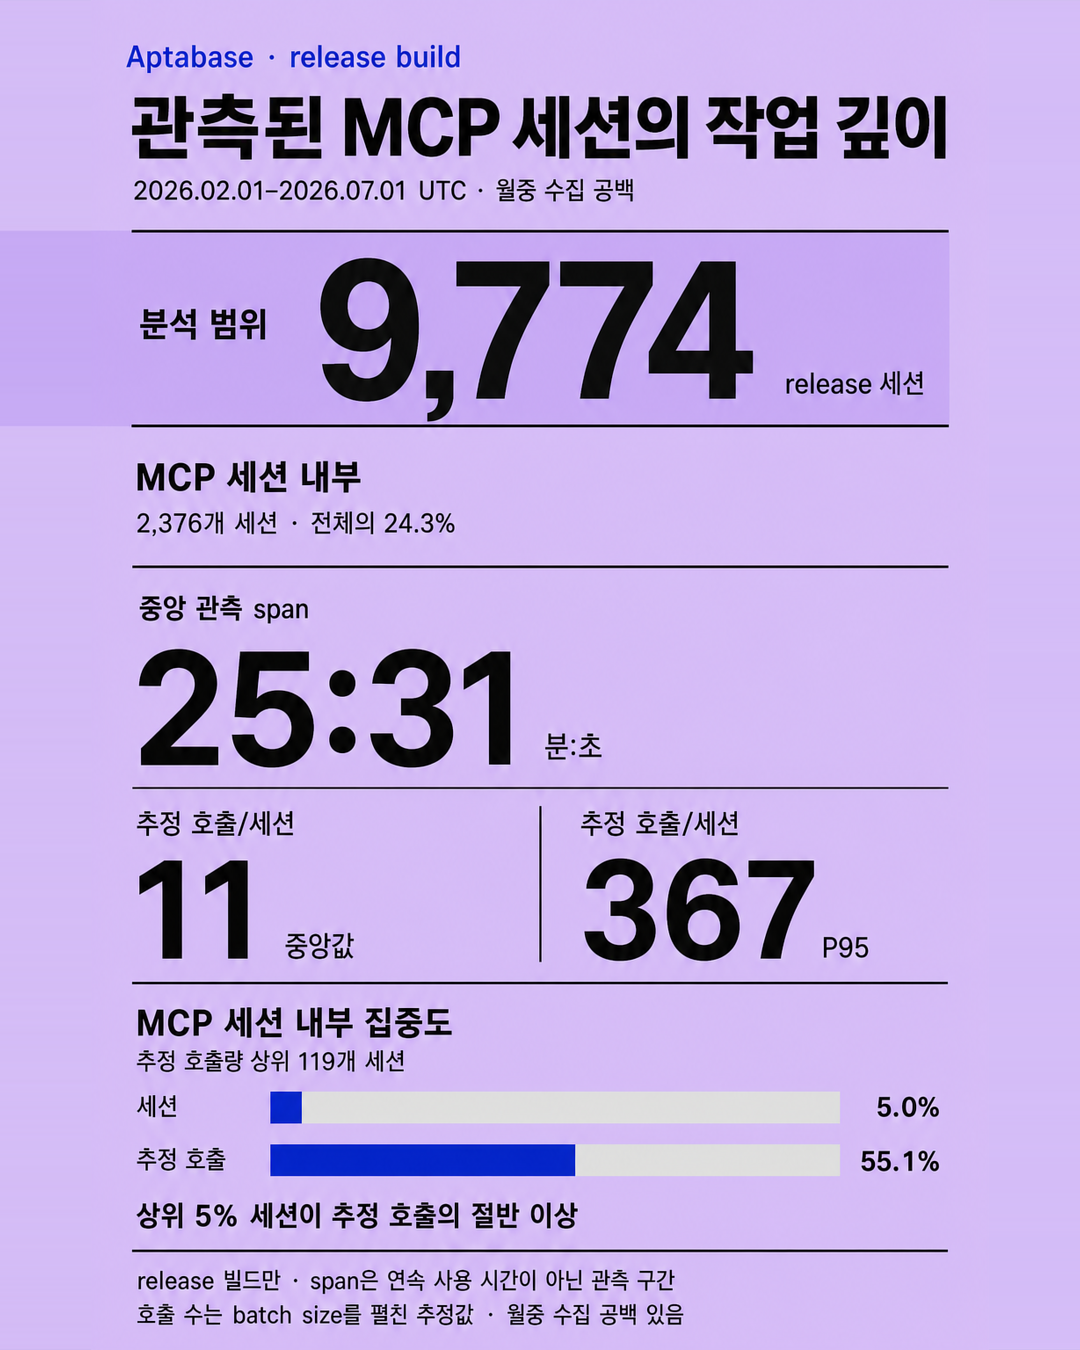
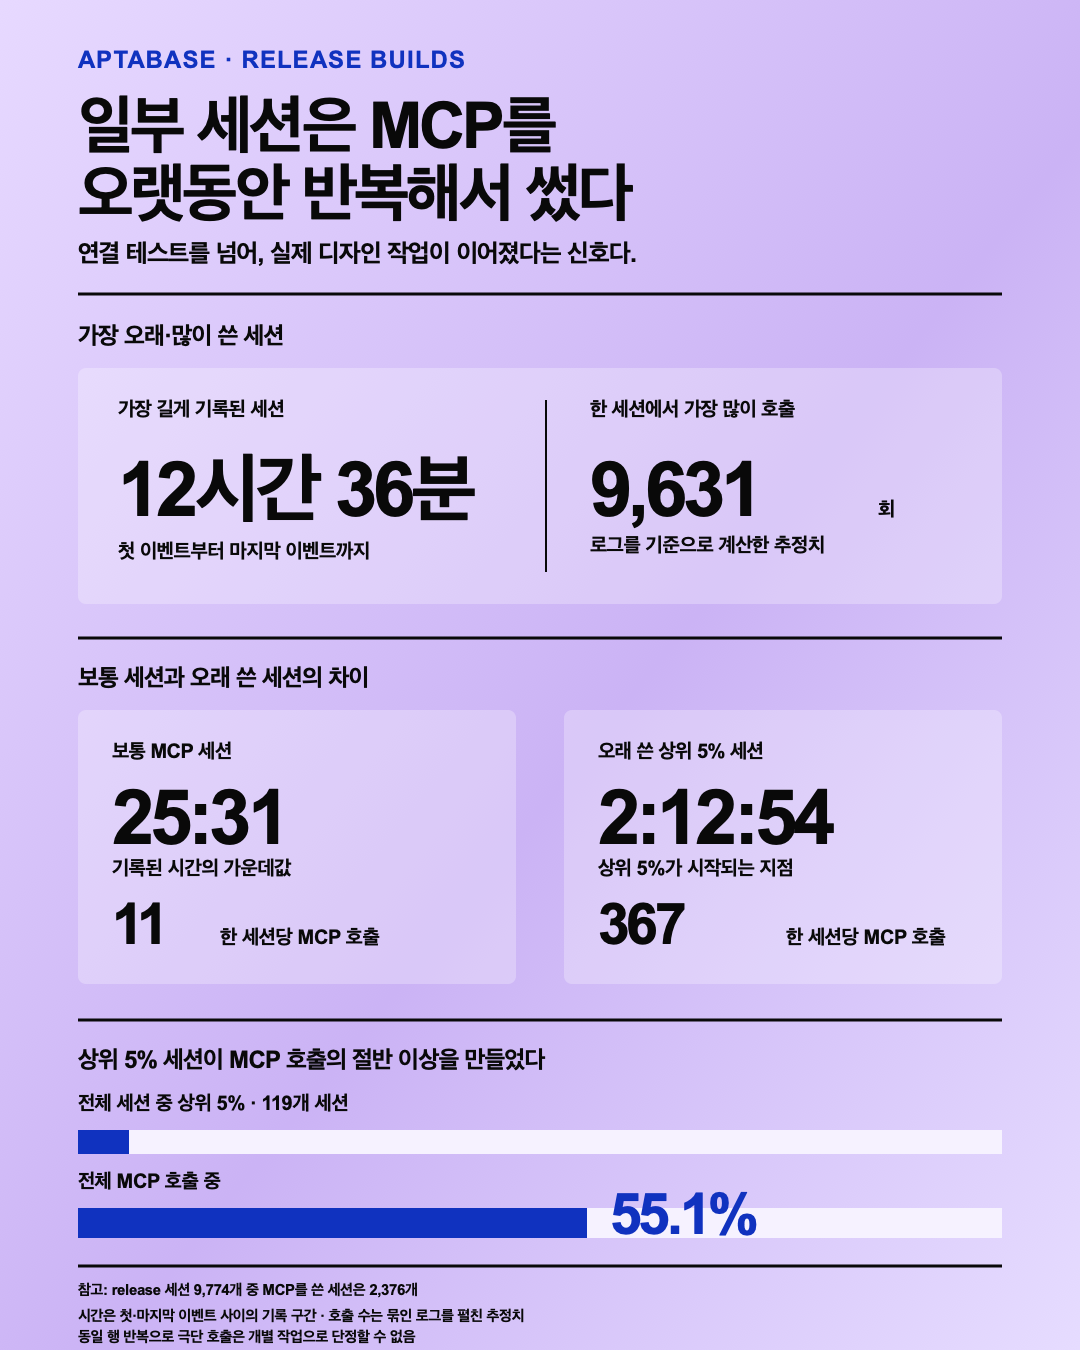
Add bilingual MCP Magic retrospective assets

diff --git a/_posts/2026-07-12-mcp-magic-retrospective-en.md b/_posts/2026-07-12-mcp-magic-retrospective-en.md
@@ -1,0 +1,122 @@
+---
+title: "31,360 Cumulative Users and 570,000 Calls: MCP Magic"
+date: 2026-07-12 00:00:00
+description: "31,360 cumulative users and 570,373 MCP tool calls. A retrospective on turning the first connection into a product—and what happened once the center of that experience moved into the platform."
+featured_image: "/images/projects/2026-mcp-magic-retrospective/mcp-magic-desktop-en.png"
+article_class: "post__content--mcp-magic-retrospective"
+title_class: "post__title--mcp-magic-retrospective"
+visible: true
+lang: en
+translation_key: mcp-magic-retrospective
+---
+
+> What we built was not a new AI feature. It was a doorway people could cross—from installation to their first successful call—without giving up along the way.
+
+_Read the [original Korean post](/blog/mcp-magic-retrospective)._
+
+GA4 recorded **31,360 cumulative users** and **570,373 MCP tool calls**. The project worked. But as usage grew, operating the connection became the harder problem, and the center of the experience we were solving for began moving into the official platform.
+
+<figure id="mcp-retro-key-metrics" class="mcp-retro-image-figure">
+  <a href="/images/projects/2026-mcp-magic-retrospective/mcp-magic-key-metrics-social-en.png" aria-label="View the MCP Magic key metrics image at full size">
+    <img src="/images/projects/2026-mcp-magic-retrospective/mcp-magic-key-metrics-social-en.png" width="1122" height="1402" alt="An overview of 31,360 cumulative GA4 users, 570,373 MCP tool calls, and a 94.1 percent success rate for status-classified calls">
+  </a>
+  <figcaption>31,360 is the cumulative user count for the whole app. 1,633 active users generated at least one <code>mcp_tool_call</code> event; these are not sequential funnel stages for the same users. The GA4 query covers July 1, 2025–June 30, 2026, with valid records beginning in August 2025. The success rate uses the 570,044 calls with an explicit success or failure status.</figcaption>
+</figure>
+
+Watching AI read and edit a design in Figma was compelling. But when we handed the tools to other people, many stopped before reaching that moment. They had to set up a runtime and server, an MCP client and a Figma plugin separately—and when something went wrong, move back and forth between the terminal and the plugin.
+
+So we brought those scattered preparation steps into one desktop app. Borrowing a Korean expression, we wanted a **“one-click” experience** where the server would just come up.
+
+## We built an entrance, not a feature
+
+MCP Magic did not start from scratch. Its starting point was [Cursor Talk To Figma MCP](https://github.com/grab/cursor-talk-to-figma-mcp), which the Grab Design team had used internally and released as open source. The core capability—reading and editing Figma through natural language—already worked.
+
+The product problem we had to solve was not the core capability, but the path to first success. MCP Magic brought service startup, copied configuration, connection status, and logs—previously scattered across several tools—onto one screen.
+
+We released the first KMP-based desktop version on July 18, 2025, then expanded it into a family of apps called MCP Magic that October. After listening to users, we rewrote the architecture in Electron. I worked through this with my fellow contributors **Yiseo and Jin**. The implementation changed more than once, but the question stayed the same.
+
+> How could more people get past the first connection and into real work?
+
+The app did not make MCP itself more powerful. It made the path to power that already existed shorter and clearer. A powerful capability that people abandon before their first connection might as well not exist to them.
+
+## The project led to real work
+
+Over the 11 months with valid GA4 records, 1,633 active users generated at least one `mcp_tool_call` event. This figure is counted independently by event from the app-wide total of 31,360 cumulative users, so it does not mean all 31,360 people made it to MCP work. Still, that core group produced 570,373 MCP tool calls: 536,267 successes and 33,777 failures. Among calls with an explicit success or failure status, the success rate was **94.1%**.
+
+The core group that generated calls did not simply check whether a connection was live and leave. `create_text` succeeded 105,643 times, and `set_fill_color` 92,561 times—a combined 198,204. Grouping tool names into creation/duplication and styling/content editing yields 390,642 calls, or **72.8%** of all successful calls.
+
+<figure id="mcp-retro-purpose-chart" class="mcp-retro-image-figure">
+  <a href="/images/projects/2026-mcp-magic-retrospective/mcp-magic-calls-by-purpose-social-en.png" aria-label="View the MCP successful calls by design purpose chart at full size">
+    <img src="/images/projects/2026-mcp-magic-retrospective/mcp-magic-calls-by-purpose-social-en.png" width="1080" height="1350" alt="A horizontal bar chart of successful MCP calls by design purpose, including 155,623 for content creation and text editing, 151,443 for structure and layout, and 141,524 for visual styling">
+  </a>
+  <figcaption>This is an analyst-defined classification of the most-used successful tools into six more specific design purposes, based on their names. People did not stop at reading Figma; they created, filled, and refined it.</figcaption>
+</figure>
+
+**What people wanted was not a connection for its own sake, but the moment when AI actually touched Figma.** MCP Magic's role was to build the entrance that made that moment reachable.
+
+### Depth was uneven, and some sessions became very deep
+
+GA4 showed reach and call volume; the Aptabase export showed how deeply MCP was used inside observed sessions. The important signal here is not the total number of sessions, but the density of work in the sessions where people began using MCP.
+
+<figure id="mcp-retro-session-depth" class="mcp-retro-image-figure">
+  <a href="/images/projects/2026-mcp-magic-retrospective/mcp-magic-session-depth-social-en.png" aria-label="View the work depth in observed MCP sessions at full size">
+    <img src="/images/projects/2026-mcp-magic-retrospective/mcp-magic-session-depth-social-en.png" width="1080" height="1350" alt="A maximum observed span of 12 hours and 36 minutes and a maximum estimated 9,631 MCP calls; a median span of 25 minutes and 31 seconds with 11 estimated calls per session; a P95 span of 2 hours, 12 minutes, and 54 seconds with 367 calls; and the top 5 percent of sessions driving 55.1 percent of estimated calls">
+  </a>
+  <figcaption>Release builds only. A span is the observed interval between the first and last event, not continuous usage time. Call counts are estimates with batch size expanded. Because event IDs are unavailable and identical rows repeat, extreme values cannot all be treated as independent tasks. Gaps in collection during each month mean these data do not represent total adoption or monthly trends.</figcaption>
+</figure>
+
+Work depth was not evenly distributed. A typical observed MCP session had a median span of 25 minutes and 31 seconds and 11 estimated calls, while the threshold for the deepest 5% reached 2 hours, 12 minutes, and 54 seconds with 367 calls. The longest observed session spanned 12 hours, 36 minutes, and 41 seconds; the maximum estimated call count was 9,631; and the top 5% of sessions generated 55.1% of all estimated calls. **For some people, MCP was no longer a connection to test—it had become a tool for long, repeated design work.**
+
+## After the click came operations
+
+As the user base grew, the question changed.
+
+> Could we make this something people could keep trusting across different users, operating systems, MCP clients, and network environments?
+
+The channel run by Yiseo received questions about whether design really happened with just one click, whether all AI was free, and whether the app would handle Cursor or Claude Code setup too.
+
+Every user's “it doesn't work” had a different cause. A connection could fail at the server or port, the plugin channel, MCP client settings, or operating-system security. GA4 recorded 1,539 active users encountering port-binding issues, 1,231 encountering duplicate server-start handlers, and 1,056 encountering request timeouts.
+
+The causes differed, but they arrived to users as the same message.
+
+> It doesn't work.
+
+High call-level success and session-level friction existed at the same time. GA4 showed a 94.1% success rate among calls with an explicit status, while a separate Aptabase release logbook—with a different period and instrumentation—recorded at least one failure event in 1,424 of 2,376 MCP sessions (59.9%). The two figures cannot be compared directly. But the fact that many observed MCP sessions contained at least one failure event shows why call-level success alone cannot explain the friction of doing the work.
+
+Making the first connection easy was not enough. Next came diagnosis and recovery appropriate to each user's level, connection reliability, and support operations. These were not ancillary operational chores; they were the product we still needed to build after the first connection.
+
+## Success did not guarantee survival
+
+We expanded language support and experimented with working through a local LLM without a separate IDE. But over time, the case for continuing large updates became weaker—not because there was no usage, but because the most natural home for the core experience we had made into a product began moving into the official platform.
+
+In March 2026, Figma announced [a beta in which agents write directly to the canvas through `use_figma`](https://www.figma.com/blog/the-figma-canvas-is-now-open-to-agents/), followed in May by [the Figma design agent that works directly within the canvas](https://www.figma.com/blog/the-figma-agent-is-here/). The problem itself did not go away. The default place to solve it changed.
+
+Independent tools often discover new demand first where a platform's boundary is thin. Once that demand becomes clear enough, a platform that already has the files, permissions, design system, and deployment surface can bring the flow into its own product through a shorter path. This is natural and welcome for users, but for a third party it means that **the success of a feature and the sustainability of an independent product are entirely different problems.**
+
+This is not a story about Figma seeing us and copying us. Nor can the data prove that official features caused user decline. What we did prove was real demand, while the platform occupied the structural position to solve that demand more naturally.
+
+The judgment that this direction made sense was separate from the feelings of those who built it. We found the problem early enough to turn it into a product and proved demand through tens of thousands of people and 570,000 calls. But we did not decide quickly enough what we would own for the long term: diagnosis and recovery, cross-platform connection, or deep workflows for a particular team. We were not pushed out simply because we were late. Even after solving the problem early enough, we chose our next sustainable position too late.
+
+That is why we plan to keep MCP Magic closer to maintenance mode than shut it down. Necessary fixes will continue, but there is less reason than before to keep making major feature updates in its current form.
+
+## What we will decide earlier next time
+
+In retrospect, we waited too long after making the first connection easy.
+
+First, **we should have narrowed the next goal sooner.** We never decided whether to remain an installation helper, become a connection diagnosis and recovery tool, or combine the frequently repeated Figma work into a single workflow. After the first problem was solved, we needed a new product hypothesis.
+
+Second, **we should have made the boundary of support clear.** It needed to be clearer which problems belonged to the app and which belonged to the Figma plugin, MCP client, operating system, or AI costs. Turning repeated “it doesn't work” reports into self-diagnosis and recovery flows mattered as much as developing features.
+
+Third, **we should have connected user data to the next hypothesis sooner.** Only when we organized the data late did we see broad discovery, a few work sessions with concentrated calls, high call-level success, and sessions that also contained failure events—all at once. Had we separated the first connection, first success, repeat use, and behavior after a failure from the start, the priorities for updates might have been different.
+
+## What 570,000 calls left behind
+
+What the project proved was demand, not a right for us to own that demand forever.
+
+MCP Magic reduced the first step of taking users from 0 to 80 to “one click.” The app reached 31,360 cumulative users, who accumulated 570,373 MCP tool calls. Those calls record work: creating text, applying color, making frames, and refining layouts.
+
+At the same time, the final 20% still meant diagnosis and recovery, operations and support, and the choice of where our responsibility ended. Once the official platform began solving the same problem more naturally, the more important question was not what we could build, but what we could own for the long term.
+
+This is neither a record of failure nor an excuse for slowing updates. **A successful feature and a product entering maintenance mode can exist at the same time.** The 570,000 calls are both evidence that we solved the right problem and an invoice reminding us to choose a sustainable position earlier next time.
+
+For denominators, methodology, data-quality limitations, and project history, see the separate [Appendix Markdown (Korean)](https://github.com/dusskapark/dusskapark.github.io/blob/master/research/mcp-magic-retrospective/APPENDIX.ko.md).

diff --git a/_posts/2026-07-12-mcp-magic-retrospective.md b/_posts/2026-07-12-mcp-magic-retrospective.md
@@ -1,7 +1,7 @@
 ---
-title: "31,360명의 활성 사용자와 57만 번의 호출: MCP Magic"
+title: "31,360명의 누적 사용자와 57만 번의 호출: MCP Magic"
 date: 2026-07-12 00:00:00
-description: "31,360명의 활성 사용자와 570,373건의 MCP 도구 호출. 첫 연결을 제품으로 만들고, 그 경험의 중심이 플랫폼 안으로 이동한 뒤까지 돌아본다."
+description: "31,360명의 누적 사용자와 570,373건의 MCP 도구 호출. 첫 연결을 제품으로 만들고, 그 경험의 중심이 플랫폼 안으로 이동한 뒤까지 돌아본다."
 featured_image: "/images/projects/2026-mcp-magic-retrospective/mcp-magic-desktop.png"
 article_class: "post__content--mcp-magic-retrospective"
 title_class: "post__title--mcp-magic-retrospective"
@@ -16,13 +16,13 @@ authors:
 
 > 우리가 만든 것은 새로운 AI 기능이 아니라, 설치에서 첫 성공 호출까지 포기하지 않고 건널 수 있는 입구였다.
 
-GA4에는 **31,360명의 활성 사용자**와 **570,373건의 MCP 도구 호출**이 남았다. 숫자는 이 프로젝트가 실제로 쓰였다는 사실을 보여준다. 하지만 주형님과 진영님이 만든 Talk To Figma 데스크톱 앱을 MCP Magic 앱으로 함께 확장하고 출시하면서, 내게 더 오래 남은 것은 그다음의 질문이었다. 사용자가 늘어난 뒤에도 이 경험을 어떻게 안정적으로 이어 갈 것인가. 그리고 우리가 만든 길은 앞으로 어디에 남게 될 것인가.
+GA4에는 **31,360명의 누적 사용자**와 **570,373건의 MCP 도구 호출**이 남았다. 숫자는 이 프로젝트가 실제로 쓰였다는 사실을 보여준다. 하지만 주형님과 진영님이 만든 Talk To Figma 데스크톱 앱을 MCP Magic 앱으로 함께 확장하고 출시하면서, 내게 더 오래 남은 것은 그다음의 질문이었다. 사용자가 늘어난 뒤에도 이 경험을 어떻게 안정적으로 이어 갈 것인가. 그리고 우리가 만든 길은 앞으로 어디에 남게 될 것인가.
 
 <figure id="mcp-retro-key-metrics" class="mcp-retro-image-figure">
   <a href="/images/projects/2026-mcp-magic-retrospective/mcp-magic-key-metrics-social.png" aria-label="MCP Magic 핵심 지표 이미지 크게 보기">
-    <img src="/images/projects/2026-mcp-magic-retrospective/mcp-magic-key-metrics-social.png" width="1080" height="1350" alt="GA4 활성 사용자 31,360명, MCP 도구 호출 570,373건, 상태 분류 호출 성공률 94.1%를 요약한 이미지">
+    <img src="/images/projects/2026-mcp-magic-retrospective/mcp-magic-key-metrics-social.png" width="1080" height="1350" alt="GA4 누적 사용자 31,360명, MCP 도구 호출 570,373건, 상태 분류 호출 성공률 94.1%를 요약한 이미지">
   </a>
-  <figcaption>31,360명은 앱 전체 활성 사용자다. <code>mcp_tool_call</code> 이벤트를 남긴 활성 사용자는 1,633명이며, 두 값은 동일 사용자의 순서를 추적한 퍼널이 아니다. GA4 요청 범위는 2025.07.01–2026.06.30, 실제 유효 기록은 2025년 8월부터다. 성공률은 성공·실패 상태가 명시된 570,044건 기준이다.</figcaption>
+  <figcaption>31,360명은 앱 전체 누적 사용자다. <code>mcp_tool_call</code> 이벤트를 남긴 활성 사용자는 1,633명이며, 두 값은 동일 사용자의 순서를 추적한 퍼널이 아니다. GA4 요청 범위는 2025.07.01–2026.06.30, 실제 유효 기록은 2025년 8월부터다. 성공률은 성공·실패 상태가 명시된 570,044건 기준이다.</figcaption>
 </figure>
 
 Figma에서 AI가 디자인을 읽고 고치는 장면은 처음부터 매력적이었다. 다만 다른 사람에게 도구를 건네보면, 많은 이가 그 장면에 닿기도 전에 멈췄다. 런타임과 서버, MCP 클라이언트와 Figma 플러그인을 각각 설정해야 했고, 문제가 생길 때마다 터미널과 플러그인 사이를 오가야 했기 때문이다.
@@ -33,7 +33,7 @@ Figma에서 AI가 디자인을 읽고 고치는 장면은 처음부터 매력적
 
 MCP Magic은 빈 곳에서 시작한 프로젝트가 아니다. 출발점에는 Grab Design 팀에서 사용하다 오픈소스로 공개한 [Cursor Talk To Figma MCP](https://github.com/grab/cursor-talk-to-figma-mcp)가 있었다. 자연어로 Figma를 읽고 수정하는 핵심 기능은 이미 작동하고 있었다.
 
-주형님이 누구보다 먼저 본 것도 바로 그 지점이었다. 문제는 기능을 하나 더 보태는 일이 아니라, 사용자가 처음 성공하기까지의 과정을 줄이는 일이었다. 주형님과 진영님은 25년 7월 첫 Talk To Figma 데스크톱 앱을 GitHub에 공개했다. 서비스 실행, 설정 복사, 연결 상태와 로그처럼 여러 도구에 흩어져 있던 일을 데스크톱 트레이 메뉴에서 할 수 있게 만들어준 간단한 앱이었다. 이 버전은 현재 Grab의 공식 오픈소스가 됐고 MCP Magic 앱의 백본이 됐다. (많은 이야기가 있지만, 이 글에서는 짧게 줄인다.)
+주형님이 먼저 본 문제는 기능 부족이 아니라, 사용자가 처음 성공하기까지의 복잡한 과정이었다. 2025년 7월, 주형님과 진영님은 서비스 실행·설정·연결 상태·로그를 트레이 메뉴에 모은 Talk To Figma 데스크톱 앱을 GitHub에 공개했다. 이 간단한 앱은 현재 Grab의 공식 오픈소스이자 MCP Magic의 백본이 됐다.
 
 그 프로토타입을 계기로 나는 프로젝트에 적극적으로 참여했다. 데스크톱 UI의 아이디어를 함께 다듬고, 복잡한 설정을 사용자 언어로 풀어내는 방식과 채널을 통한 홍보를 맡았다. 같은 해 10월, 우리는 이 기반을 MCP Magic이라는 패밀리 앱으로 확장해 출시했다. 이후 사용자 의견을 들으며 여러 번 구조를 다시 썼지만, 붙들고 있던 질문은 바뀌지 않았다.
 
@@ -43,7 +43,9 @@ MCP Magic은 빈 곳에서 시작한 프로젝트가 아니다. 출발점에는 
 
 ## 이 프로젝트는 실제 작업으로 이어졌다
 
-GA4의 실제 기록이 있는 11개월 동안 `mcp_tool_call` 이벤트를 한 번 이상 남긴 활성 사용자는 1,633명이었다. 이 값은 앱 전체 활성 사용자 31,360명과 이벤트별로 따로 집계됐으므로, 모든 사용자가 MCP 작업까지 갔다고 말할 수는 없다. 다만 이 핵심 사용층에서 570,373건의 MCP 도구 호출이 남았다. 이 가운데 536,267건은 성공, 33,777건은 실패로 기록됐다. 성공 또는 실패 상태가 명시된 호출만 보면 성공률은 **94.1%**였다.
+GA4의 실제 기록이 있는 11개월 동안 `mcp_tool_call` 이벤트를 한 번 이상 남긴 활성 사용자는 1,633명이었다. 이 값은 앱 전체 누적 사용자 31,360명과 이벤트별로 따로 집계됐으므로, 모든 사용자가 MCP 작업까지 갔다고 말할 수는 없다. 다만 이 핵심 사용층에서 570,373건의 MCP 도구 호출이 남았다. 이 가운데 536,267건은 성공, 33,777건은 실패로 기록됐다. 성공 또는 실패 상태가 명시된 호출만 보면 성공률은 **94.1%**였다.
+
+**이 1,633명은 AI와 Figma를 유료로 활용하는 프로 사용자들이다.** Cursor나 Claude Code 같은 AI 도구와 Figma 유료 플랜을 이미 업무에 쓰고 있었고, 그 위에서 MCP Magic까지 도입했다. 따라서 1,633명은 단순 설치나 무료 체험이 아니라, 새 워크플로를 실제 업무에 먼저 끌어들인 상당히 이른 초기 수용자층을 뜻한다.
 
 이 기록에서 가장 반가웠던 것은, 사용자가 연결 상태만 확인하고 떠나지 않았다는 점이다. `create_text`는 105,643회, `set_fill_color`는 92,561회 성공했다. 둘을 합치면 198,204회다. 도구 이름을 생성·복제와 스타일·콘텐츠 편집으로 묶으면 390,642건으로, 전체 성공 호출의 **72.8%**를 차지했다.
 
@@ -56,18 +58,18 @@ GA4의 실제 기록이 있는 11개월 동안 `mcp_tool_call` 이벤트를 한 
 
 **사용자가 원한 것은 단순한 연결이 아니라 AI가 Figma를 실제로 만지는 순간이었다.** 주형님과 진영님이 데스크톱 앱으로 연 가능성을, 우리는 MCP Magic에서 더 많은 사람이 실제 작업으로 이어 갈 수 있게 다듬었다.
 
-### 넓게 발견됐고, 일부 작업 세션은 깊었다
+### 깊이는 고르지 않았고, 일부 세션은 매우 깊었다
 
-GA4가 도달 범위와 호출 규모를 보여줬다면, Aptabase export는 관측된 작업 세션의 깊이를 보여줬다. 개발 빌드를 제외한 release 자료에서 MCP 호출이 들어간 세션은 전체 관측 세션의 일부였다. 하지만 그 안에는 긴 관측 span과 호출량의 긴 꼬리가 함께 나타났다. 아래 수치는 채택률이나 연속 사용 시간이 아니라, 기록으로 남은 세션 안에서의 작업 깊이를 설명한다.
+GA4가 도달 범위와 호출 규모를 보여줬다면, Aptabase export는 세션 안에서 MCP가 얼마나 깊게 쓰였는지를 보여줬다. 여기서 중요한 것은 전체 세션 수가 아니라, MCP를 쓰기 시작한 일부 세션의 밀도다.
 
 <figure id="mcp-retro-session-depth" class="mcp-retro-image-figure">
-  <a href="/images/projects/2026-mcp-magic-retrospective/mcp-magic-session-depth-social.png" aria-label="관측된 MCP 세션 작업 깊이 이미지 크게 보기">
-    <img src="/images/projects/2026-mcp-magic-retrospective/mcp-magic-session-depth-social.png" width="1080" height="1350" alt="9,774개 release 세션 중 MCP 호출이 포함된 2,376개 세션의 중앙 관측 span 25분 31초, 세션당 추정 호출 중앙값 11회와 P95 367회, 상위 5% 세션의 호출 집중도 55.1%를 보여주는 이미지">
+  <a href="/images/projects/2026-mcp-magic-retrospective/mcp-magic-session-depth-social.png" aria-label="관측된 MCP 세션의 작업 깊이 이미지 크게 보기">
+    <img src="/images/projects/2026-mcp-magic-retrospective/mcp-magic-session-depth-social.png" width="1080" height="1350" alt="최대 관측 span 12시간 36분과 최대 추정 MCP 호출 9,631회, 중앙 관측 span 25분 31초와 세션당 추정 호출 중앙값 11회, P95 2시간 12분 54초와 367회, 상위 5% 세션의 55.1% 호출 집중도를 보여주는 이미지">
   </a>
-  <figcaption>release 빌드만 집계했다. span은 첫 이벤트와 마지막 이벤트 사이의 관측 구간이며 연속 사용 시간이 아니다. 호출 수는 batch size를 펼친 추정값이다. event ID가 없고 같은 행이 반복돼 극단값을 모두 독립 작업으로 단정할 수 없다. 월중 수집 공백이 있어 전체 채택 규모나 월별 추세를 나타내지 않는다.</figcaption>
+  <figcaption>release 빌드만 집계했다. span은 첫 이벤트와 마지막 이벤트 사이의 관측 구간이며 연속 사용 시간이 아니다. 호출 수는 batch size를 반영한 추정값이다. event ID가 없고 같은 행이 반복돼 극단값을 모두 독립 작업으로 단정할 수 없다. 월중 수집 공백이 있어 전체 채택 규모나 월별 추세를 나타내지 않는다.</figcaption>
 </figure>
 
-모든 사용자가 깊게 썼다고 말할 수는 없다. 다만 **발견은 넓었고, MCP가 포함된 관측 세션은 길었으며 일부 상위 세션에 호출이 강하게 집중됐다**고는 말할 수 있다. 사용자의 일부는 단순히 연결을 시험한 것이 아니라, 실제 디자인 작업에 이 도구를 끌어들였다.
+관측된 MCP 작업의 깊이는 균등하지 않았다. 전형적인 세션은 관측 span 중앙값 25분 31초와 추정 호출 중앙값 11회였지만, 깊은 5%의 문턱에서는 2시간 12분 54초와 367회까지 올라갔다. 가장 긴 관측 세션은 12시간 36분 41초, 최대 추정 호출은 9,631회였고, 상위 5% 세션만으로 전체 추정 호출의 55.1%가 남았다. **MCP는 일부 사용자에게 연결을 시험하는 기능이 아니라, 길고 반복적인 디자인 작업의 도구가 됐다.**
 
 ## 딸깍 다음에는 운영이 남았다
 